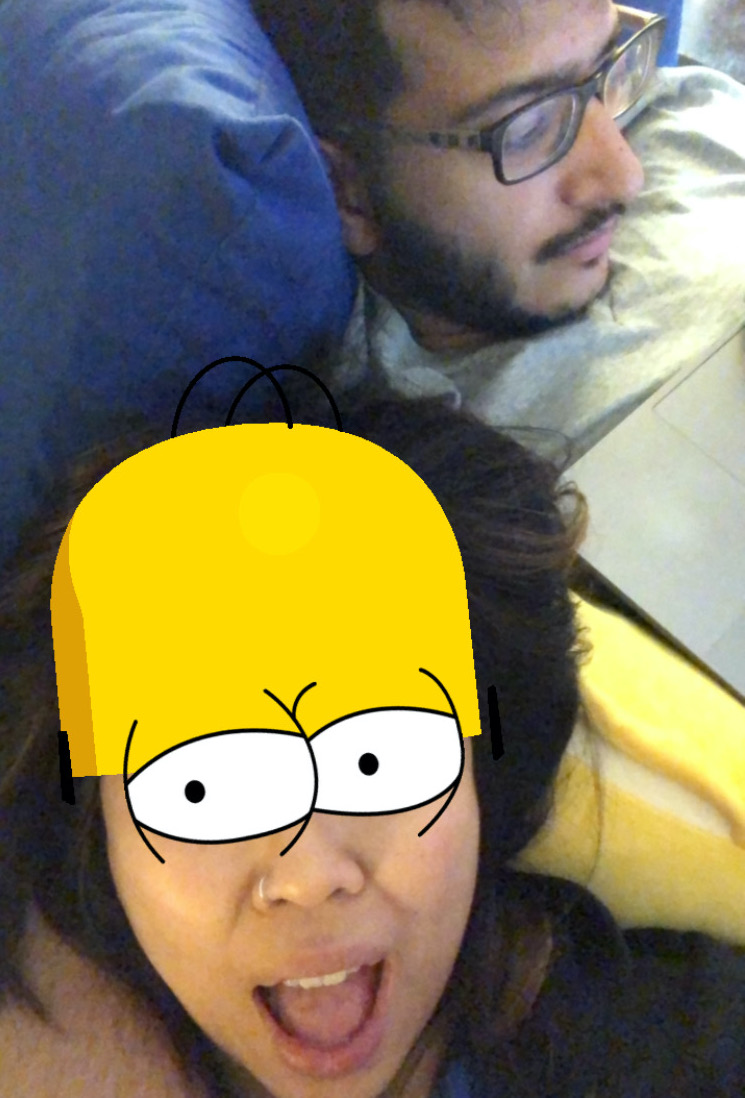
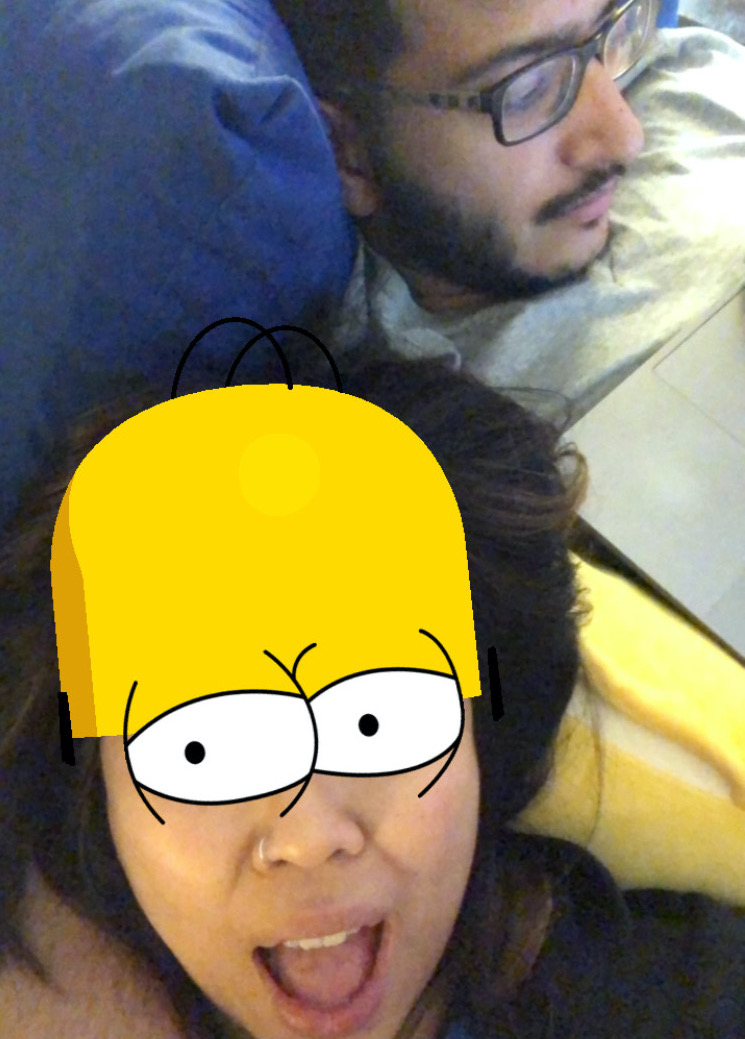
crop more pics

diff --git a/src/timeline.jsx b/src/timeline.jsx
@@ -478,7 +478,7 @@ export default function Timeline() {
 			<TimelineItem
 				imgUrl={`${imgPath}derps.jpg`}
 				title={'Derps'}
-				caption={'How much time do you think we spend being comfy hehe?'}
+				caption={"How much time do you think we spend being comfy hehe? Also it is hard cropping our pics to fit into this layout I made because you're so much taller and your hair adds on more height -_-"}
 				date={'1/25/2020'}
 			/>
 			<TimelineItem
